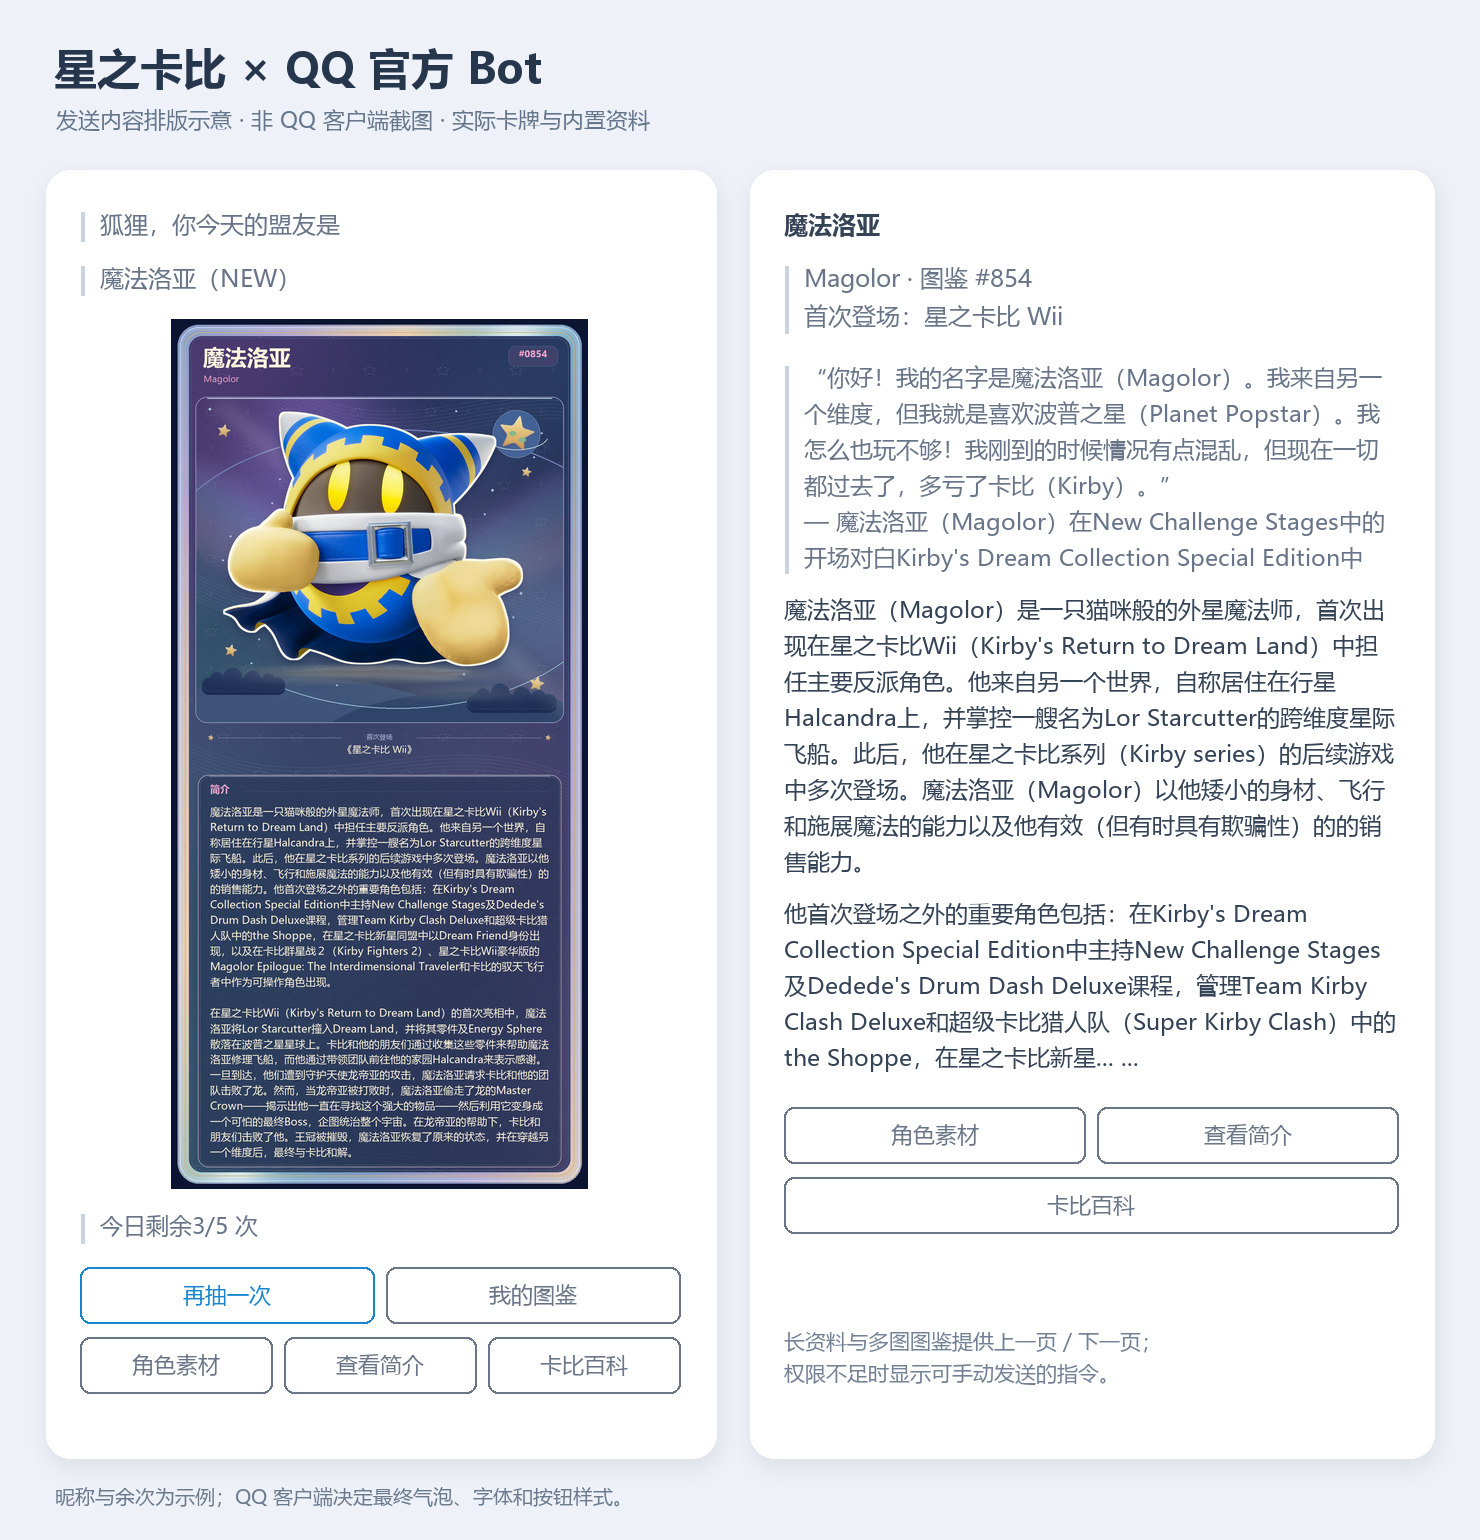
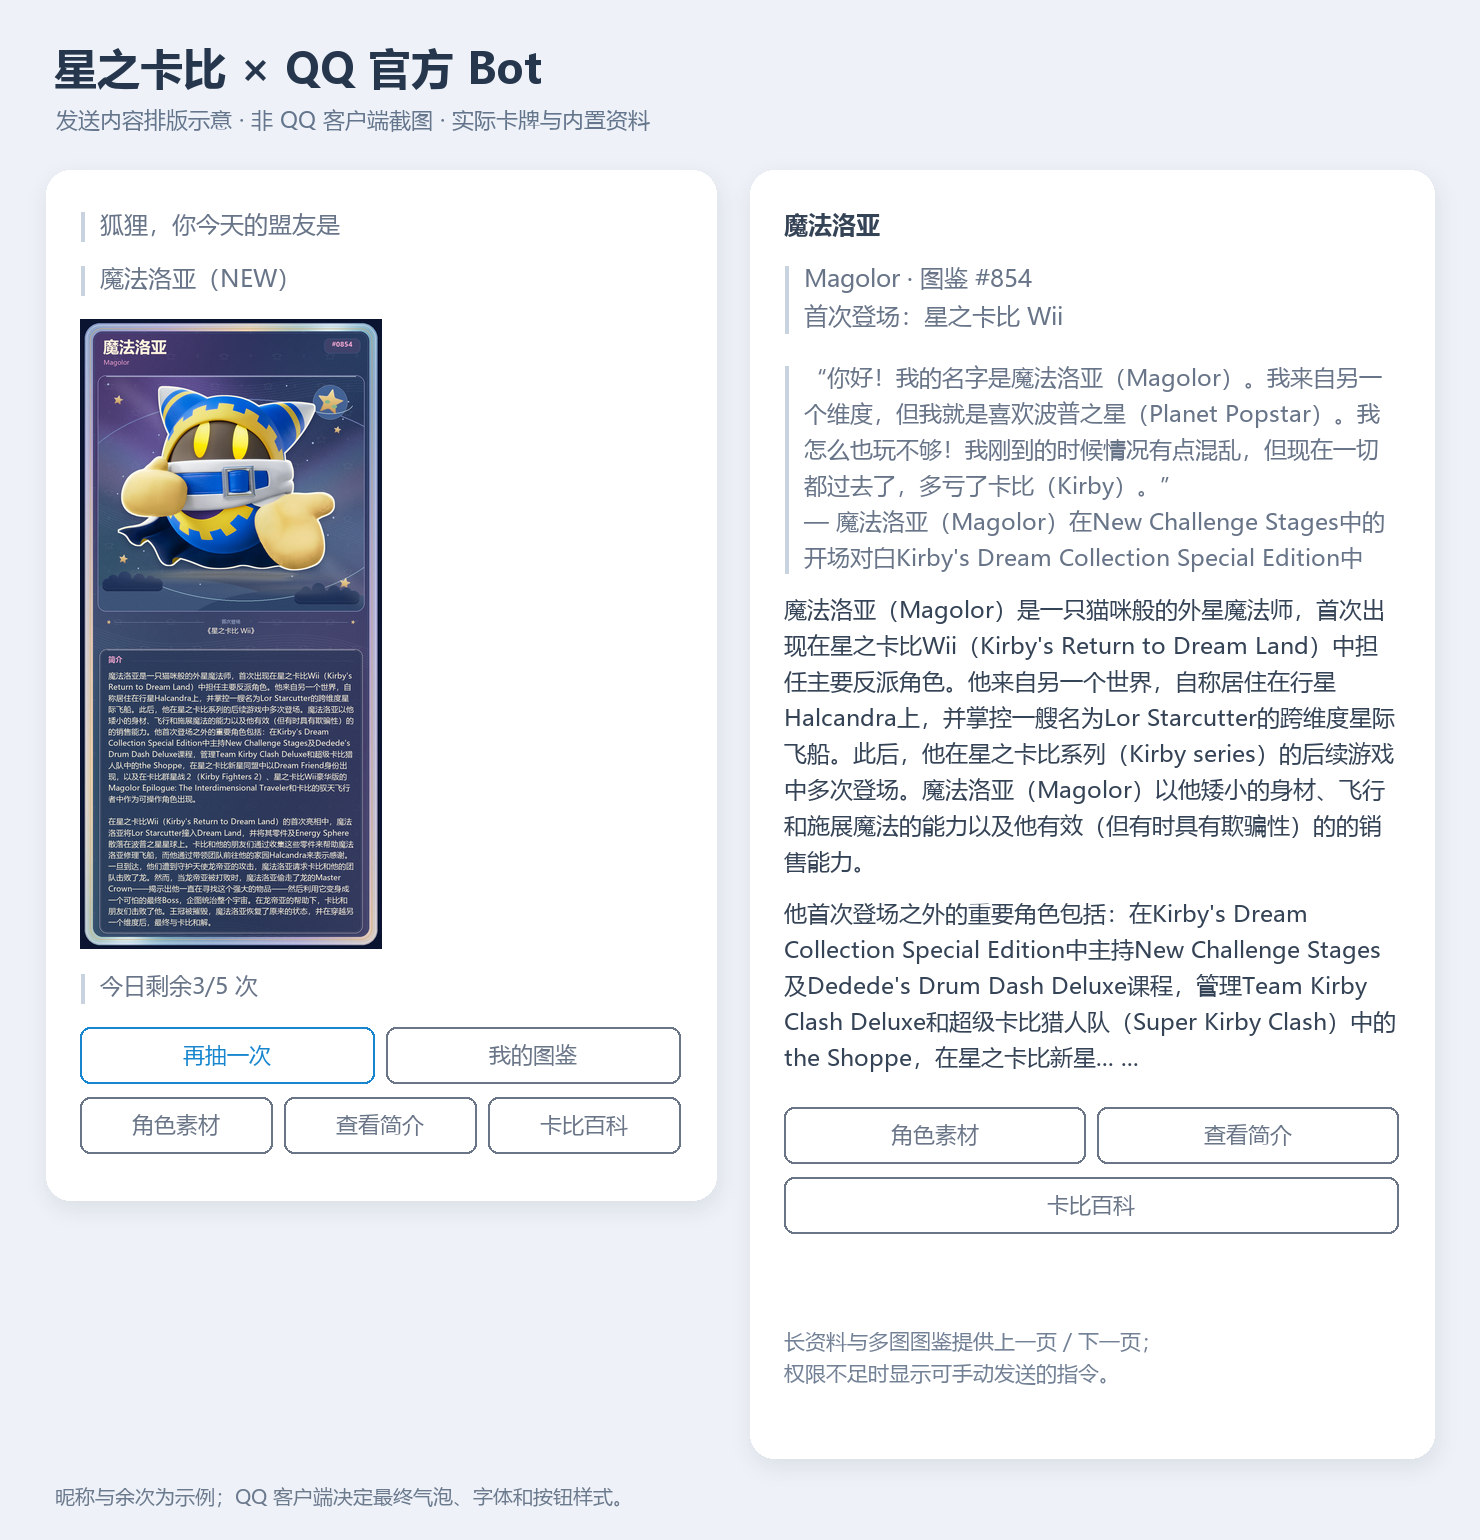
fix: keep QQ card previews compact without resampling (v4.13.1)

Changed region(s): [[0.0311, 0.187, 0.4662, 0.9039], [0.2176, 0.8416, 0.2797, 0.9039]]

diff --git a/qq_official.py b/qq_official.py
@@ -113,6 +113,7 @@ class Presentation:
     actions: tuple[Action, ...] = ()
     replace_caption: bool = False
     paragraphs: bool = False
+    card_image: bool = False
 
 
 def character_actions(
@@ -167,6 +168,7 @@ def draw_presentation(
         summary=summary,
         actions=tuple(actions),
         replace_caption=True,
+        card_image=True,
     )
 
 
@@ -701,6 +703,9 @@ class QQOfficialDelivery:
         images: dict[int, tuple[str, int, int]],
         page: int,
         total: int,
+        *,
+        card_display_width: int = 240,
+        card_display_height: int = 420,
     ) -> str:
         lines = []
         if view.intro:
@@ -717,8 +722,15 @@ class QQOfficialDelivery:
                     )
             elif index in images:
                 url, width, height = images[index]
-                printed_width = min(width, 480)
-                printed_height = max(1, round(height * printed_width / width))
+                if view.card_image:
+                    scale = min(
+                        1, card_display_width / width, card_display_height / height
+                    )
+                    printed_width = max(1, round(width * scale))
+                    printed_height = max(1, round(height * scale))
+                else:
+                    printed_width = min(width, 480)
+                    printed_height = max(1, round(height * printed_width / width))
                 lines.append(
                     f"![盟友卡牌 #{printed_width}px #{printed_height}px]({url})"
                 )
@@ -772,6 +784,8 @@ class QQOfficialDelivery:
         template_key: str = "content",
         buttons_enabled: bool = True,
         keyboard_template: str = "",
+        card_display_width: int = 240,
+        card_display_height: int = 420,
         page: int = 1,
         token: str = "",
     ) -> list[str] | None:
@@ -844,7 +858,15 @@ class QQOfficialDelivery:
                                 type(exc).__name__,
                             )
                             attachment = True
-                body = self._markdown(view, current, references, page, len(pages))
+                body = self._markdown(
+                    view,
+                    current,
+                    references,
+                    page,
+                    len(pages),
+                    card_display_width=card_display_width,
+                    card_display_height=card_display_height,
+                )
                 commands = fallback_commands(actions)
                 raw_text = "\n".join(
                     str(item.text) for item in current if isinstance(item, Comp.Plain)

diff --git a/tests/test_qq_official.py b/tests/test_qq_official.py
@@ -99,7 +99,7 @@ class RichDeliveryTests(unittest.IsolatedAsyncioTestCase):
         self.delivery = qq.QQOfficialDelivery(self.root)
         self.event = OfficialEvent()
         self.image_path = self.root / "card.png"
-        Image.new("RGB", (200, 310), "pink").save(self.image_path)
+        Image.new("RGB", (1200, 2400), "pink").save(self.image_path)
         self.image = Comp.Image.fromFileSystem(str(self.image_path))
         self.outcome = AllyDrawOutcome(
             ENTRY, 4, False, False, collected=37, total=1353, daily_limit=5
@@ -147,6 +147,7 @@ class RichDeliveryTests(unittest.IsolatedAsyncioTestCase):
             cos.put.call_args.kwargs["headers"], {"Content-Type": "image/png"}
         )
         self.assertFalse(cos.put.call_args.kwargs["allow_redirects"])
+        self.assertEqual(cos.put.call_args.kwargs["data"], data)
         payload = calls[2][2]["json"]
         self.assertIn("qqbot-media://image/v1/example", payload["markdown"]["content"])
         self.assertNotIn("旧配文", payload["markdown"]["content"])
@@ -154,7 +155,7 @@ class RichDeliveryTests(unittest.IsolatedAsyncioTestCase):
         self.assertEqual(
             payload["markdown"]["content"],
             "> 狐狸，你今天的盟友是\n\n> 瓦豆鲁迪（NEW）\n\n"
-            "![盟友卡牌 #200px #310px](qqbot-media://image/v1/example)\n\n"
+            "![盟友卡牌 #210px #420px](qqbot-media://image/v1/example)\n\n"
             "> 今日剩余4/5 次",
         )
         self.assertNotIn("##", payload["markdown"]["content"])
@@ -857,12 +858,18 @@ class PluginOfficialFlowTests(unittest.IsolatedAsyncioTestCase):
             str(self.plugin.store.root / "kirby-ally-card-test.png")
         )
         self.plugin.config = {"ally_draw_output_mode": "卡片＋文字"}
+        self.assertTrue(self.plugin._qq_draw_view(outcome, "狐狸", [card]).card_image)
         self.assertFalse(
             self.plugin._qq_draw_view(
                 outcome, "狐狸", [Comp.Plain("自定义文本"), card]
             ).replace_caption
         )
         self.plugin.config = {"ally_draw_output_mode": "精美卡片"}
+        self.assertFalse(
+            self.plugin._qq_draw_view(
+                outcome, "狐狸", [Comp.Plain("自定义文本")]
+            ).card_image
+        )
         self.assertFalse(
             self.plugin._qq_draw_view(
                 outcome, "狐狸", [Comp.Plain("自定义文本")]

diff --git a/main.py b/main.py
@@ -267,7 +267,7 @@ class WikiTranslationIncompleteError(RuntimeError):
     PLUGIN_ID,
     "Whereis-Alice",
     "星之卡比盟友抽取、收藏图鉴与三百科查询插件",
-    "4.13.0",
+    "4.13.1",
     "https://github.com/Whereis-Alice/astrbot_plugin_kirby_catalog",
 )
 class KirbyCatalogPlugin(Star):
@@ -1906,6 +1906,8 @@ class KirbyCatalogPlugin(Star):
             "template_key": str(self._config_value("qq_official_markdown_template_key", "content") or "content").strip(),
             "buttons_enabled": self._bool_value(self._config_value("qq_official_buttons_enabled", True)),
             "keyboard_template": str(self._config_value("qq_official_keyboard_template_id", "") or "").strip(),
+            "card_display_width": self._bounded_int(self._config_value("qq_official_card_display_width", 240), 240, 120, 480),
+            "card_display_height": self._bounded_int(self._config_value("qq_official_card_display_height", 420), 420, 200, 1200),
         }
 
     async def _qq_text_results(self, event: AstrMessageEvent, text: str) -> AsyncIterator[Any]:
@@ -1952,7 +1954,7 @@ class KirbyCatalogPlugin(Star):
             for item in chain
         )
         if mode == "卡片＋文字" or not has_card:
-            return QQPresentation(view.heading, actions=view.actions)
+            return QQPresentation(view.heading, actions=view.actions, card_image=has_card)
         return view
 
     async def _ally_chain(
@@ -9062,7 +9064,7 @@ class KirbyCatalogPlugin(Star):
         try:
             await self._chain_result_with_media(
                 event, chain, send_immediately=True,
-                qq_view=QQPresentation(actions=qq_character_actions(entry)),
+                qq_view=QQPresentation(actions=qq_character_actions(entry), card_image=True),
             )
             if self._is_scheduled_event(event) and hasattr(event, "context_obj") and not getattr(event, "_has_send_oper", False):
                 raise RuntimeError("Scheduled card delivery returned no confirmation")

diff --git a/README.md b/README.md
@@ -62,6 +62,8 @@ QQ 官方 Bot 抽卡将“狐狸，你今天的盟友是”和“角色名称（
 
 ![QQ 官方 Bot 抽卡与简介排版示意](docs/images/qq-official-preview.jpg)
 
+卡牌默认完整显示在 **240×420 px** 范围内，等比缩小消息预览以减少刷屏。只修改 Markdown 的展示尺寸，上传图片保留现有分辨率；点开可放大查看。可在“QQ 官方 Bot 富文本与按钮”里调整最大显示宽高，素材和图鉴图片保持原有尺寸。
+
 在“QQ 官方 Bot 富文本与按钮”中开启增强输出即可，使用 AstrBot 已配置的 `qq_official` 或 `qq_official_webhook` 平台认证，无需另外填写密钥或配置图床。群聊／单聊原生 Markdown 已开放；**自定义按钮权限独立**，没有按钮权限时自动显示可手动发送的角色指令，也可填入已审核的按钮模板 ID。频道需相应邀测权限。
 
 “再抽一次”使用原抽取流程，按正常规则扣一次额度；素材、简介、百科、图鉴与翻页不计入抽取。QQ 单聊按 Bot 与用户分别保存次数和收藏，与群聊分开。详情、长百科和多张图鉴通过上一页／下一页阅读，按钮限原查询者在原会话使用；阅读会话保留 20 分钟。详见 [QQ 官方 Bot 配置与权限说明](docs/qq-official.md)。

diff --git a/CHANGELOG.md b/CHANGELOG.md
@@ -1,5 +1,10 @@
 # 更新日志
 
+## v4.13.1 - 2026-11-11
+
+- QQ 官方 Bot 卡牌默认完整显示在 240×420 px 范围内，等比缩小聊天预览，长卡牌同时限制高度，减少刷屏；上传图片保持现有分辨率，点开可放大查看。
+- 新增卡牌消息显示宽高配置，两种卡牌输出模式共用；素材与图鉴图片保留原有展示尺寸。更新 README 富文本预览。
+
 ## v4.13.0 - 2026-11-11
 
 - 新增“每日盟友介绍”独立开关、群会话白名单、时间和时区配置，使用 AstrBot 定时唤醒与当前会话的人格，先发纯角色卡，再依据保存的真实资料介绍角色并表达感想；不扣抽卡次数、不写收藏。
